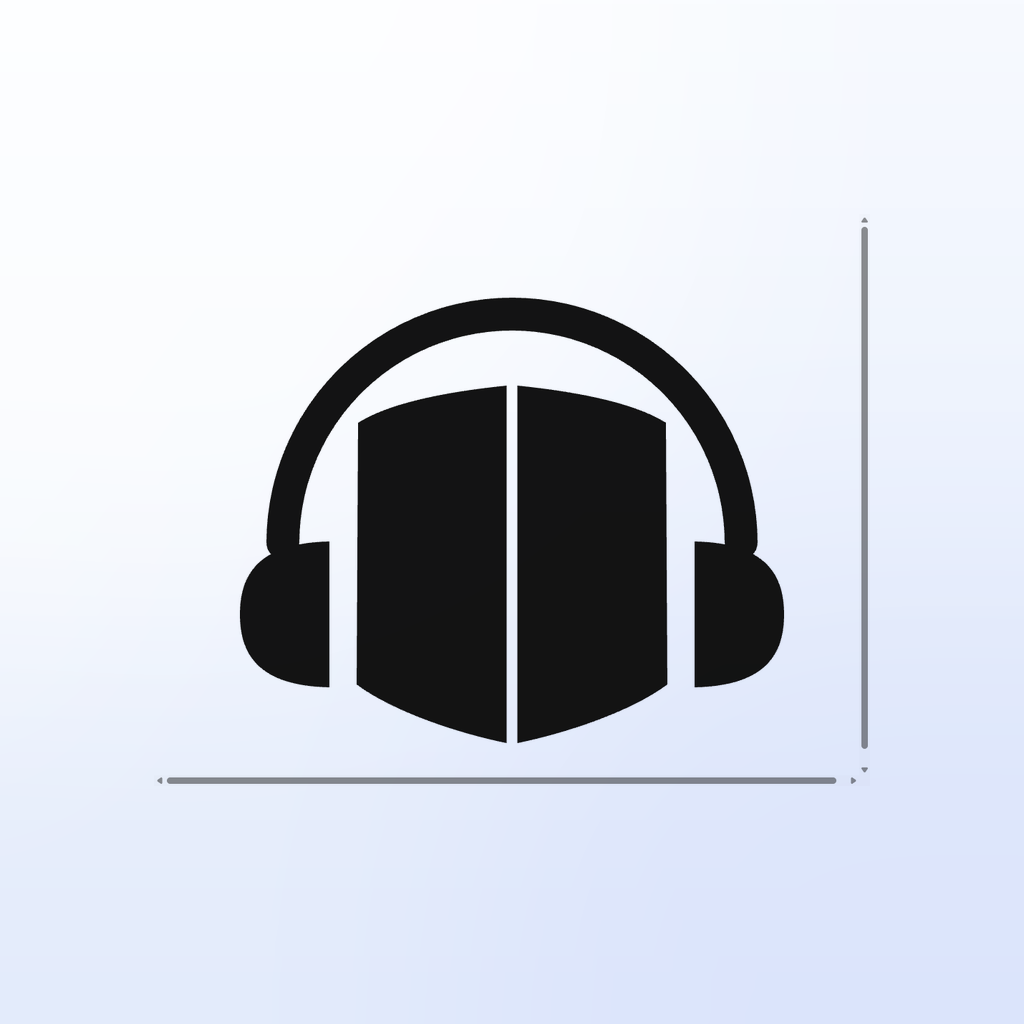
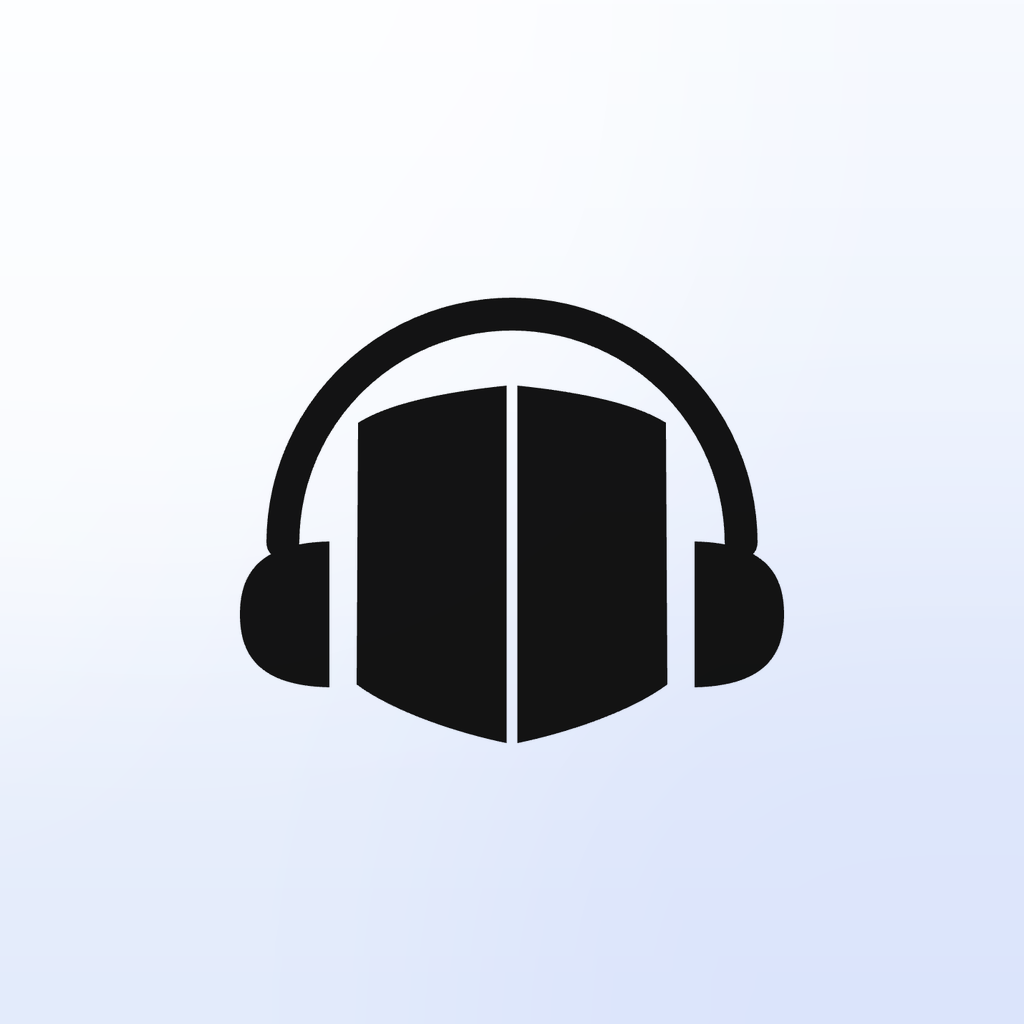
v1.4.1: 修复 App 图标边缘残留线条（清理 glyph 源图渲染残留后重新合成）+ 图标尺寸全套重生成

Changed region(s): [[0.1562, 0.75, 0.8125, 0.7812], [0.8438, 0.2188, 0.875, 0.7188]]

diff --git a/lib/consts.dart b/lib/consts.dart
@@ -3,8 +3,8 @@ library;
 
 /// App 显示名
 const kAppName = 'Haven';
-const kAppVersion = '1.4.0';
-const kUserAgent = 'Haven/1.4.0 (iOS; Audiobookshelf Client)';
+const kAppVersion = '1.4.1';
+const kUserAgent = 'Haven/1.4.1 (iOS; Audiobookshelf Client)';
 
 /// 播放默认设置
 class PlayDefaults {
